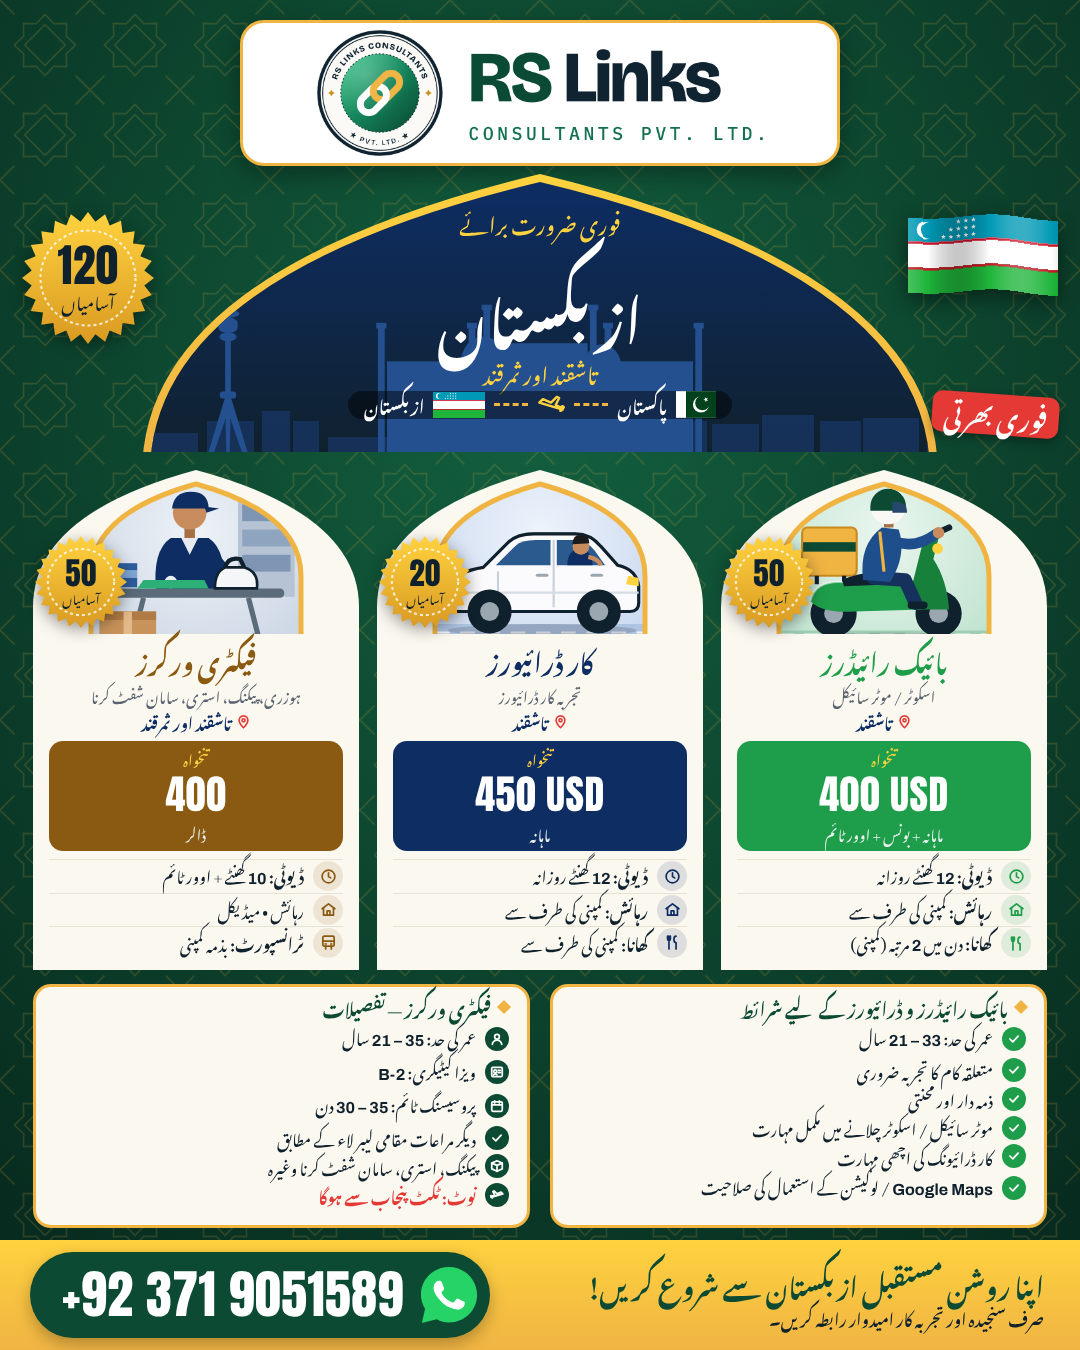
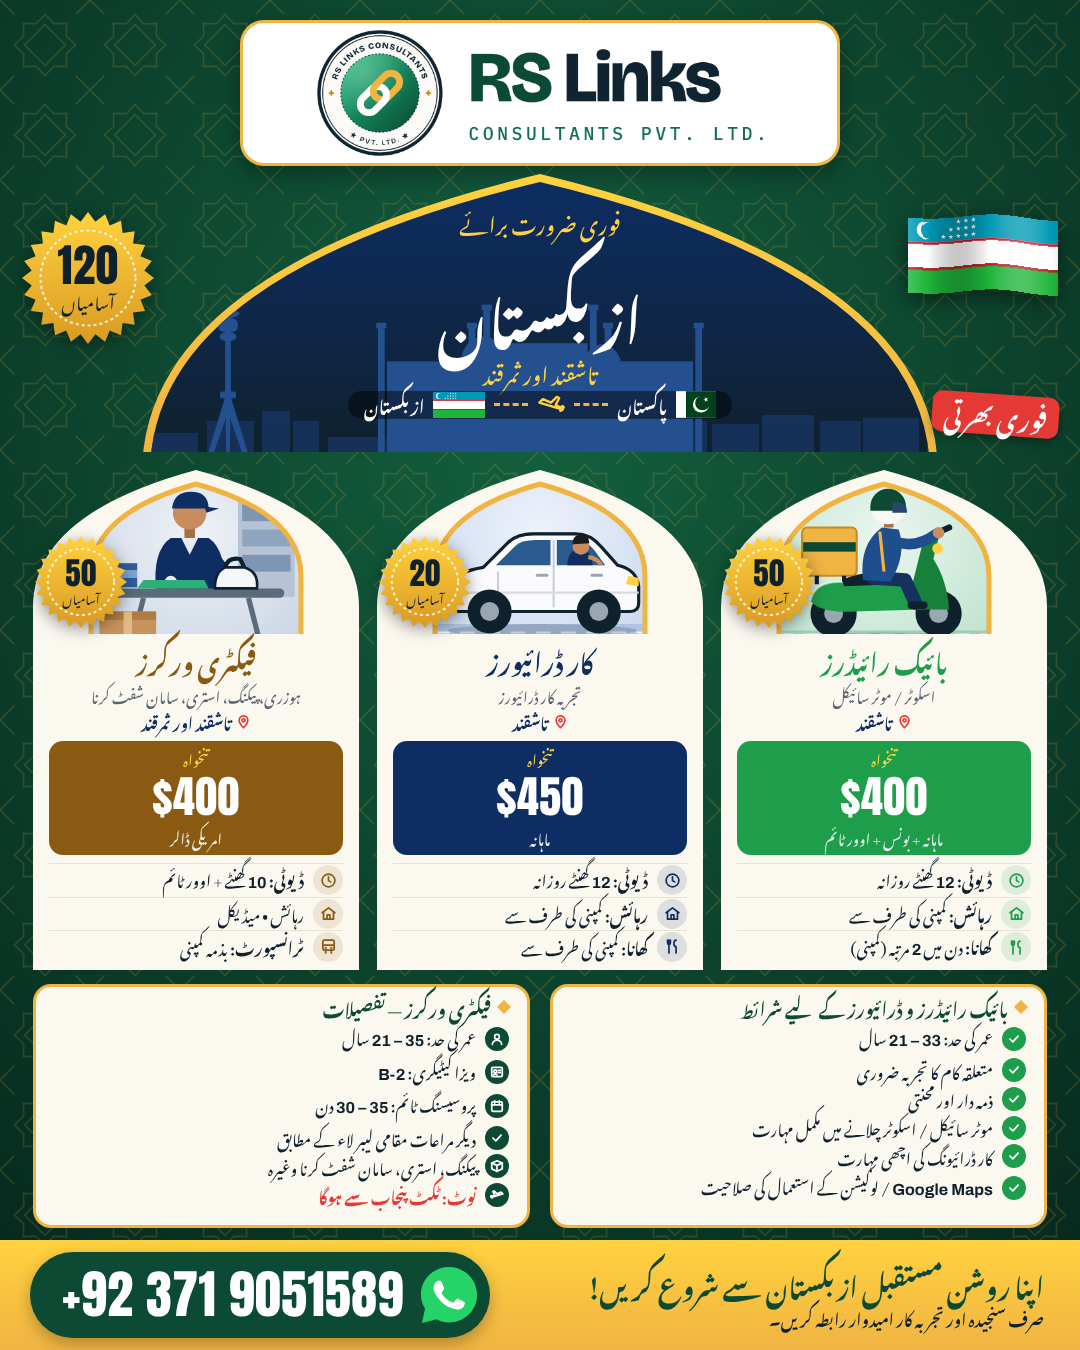
Urdu Uzbekistan ad: show salaries with $ symbol instead of USD
Claude-Session: https://claude.ai/code/session_01YJ5ofgU8QCiWTsYR9pvXG4

Changed region(s): [[0.3667, 0.56, 0.6417, 0.7156], [0.6722, 0.56, 0.9472, 0.7156], [0.0611, 0.56, 0.3361, 0.7156]]

diff --git a/src/data/uzbekistan_all.py b/src/data/uzbekistan_all.py
@@ -71,7 +71,7 @@ DATA = {
             {"art": "rider", "color": C["emerald2"], "title": "بائیک رائیڈرز",
              "roles": "اسکوٹر / موٹر سائیکل",
              "location": "تاشقند", "posts": ("50", "آسامیاں"),
-             "salary": {"label": "تنخواہ", "value": "400 USD", "size": 40,
+             "salary": {"label": "تنخواہ", "value": "$400", "size": 44,
                         "sub": "ماہانہ + بونس + اوور ٹائم"},
              "rows": [("clock", f"{B('ڈیوٹی:')} {N(12)} گھنٹے روزانہ"),
                       ("home", f"{B('رہائش:')} کمپنی کی طرف سے"),
@@ -79,14 +79,14 @@ DATA = {
             {"art": "driver", "color": C["navy"], "title": "کار ڈرائیورز",
              "roles": "تجربہ کار ڈرائیورز",
              "location": "تاشقند", "posts": ("20", "آسامیاں"),
-             "salary": {"label": "تنخواہ", "value": "450 USD", "size": 40, "sub": "ماہانہ"},
+             "salary": {"label": "تنخواہ", "value": "$450", "size": 44, "sub": "ماہانہ"},
              "rows": [("clock", f"{B('ڈیوٹی:')} {N(12)} گھنٹے روزانہ"),
                       ("home", f"{B('رہائش:')} کمپنی کی طرف سے"),
                       ("food", f"{B('کھانا:')} کمپنی کی طرف سے")]},
             {"art": "factory", "color": FACTORY, "title": "فیکٹری ورکرز",
              "roles": "ہوزری، پیکنگ، استری، سامان شفٹ کرنا",
              "location": "تاشقند اور ثمرقند", "posts": ("50", "آسامیاں"),
-             "salary": {"label": "تنخواہ", "value": "400", "size": 40, "sub": "ڈالر"},
+             "salary": {"label": "تنخواہ", "value": "$400", "size": 44, "sub": "امریکی ڈالر"},
              "rows": [("clock", f"{B('ڈیوٹی:')} {N(10)} گھنٹے + اوور ٹائم"),
                       ("home", "رہائش • میڈیکل"),
                       ("bus", f"{B('ٹرانسپورٹ:')} بذمہ کمپنی")]},
